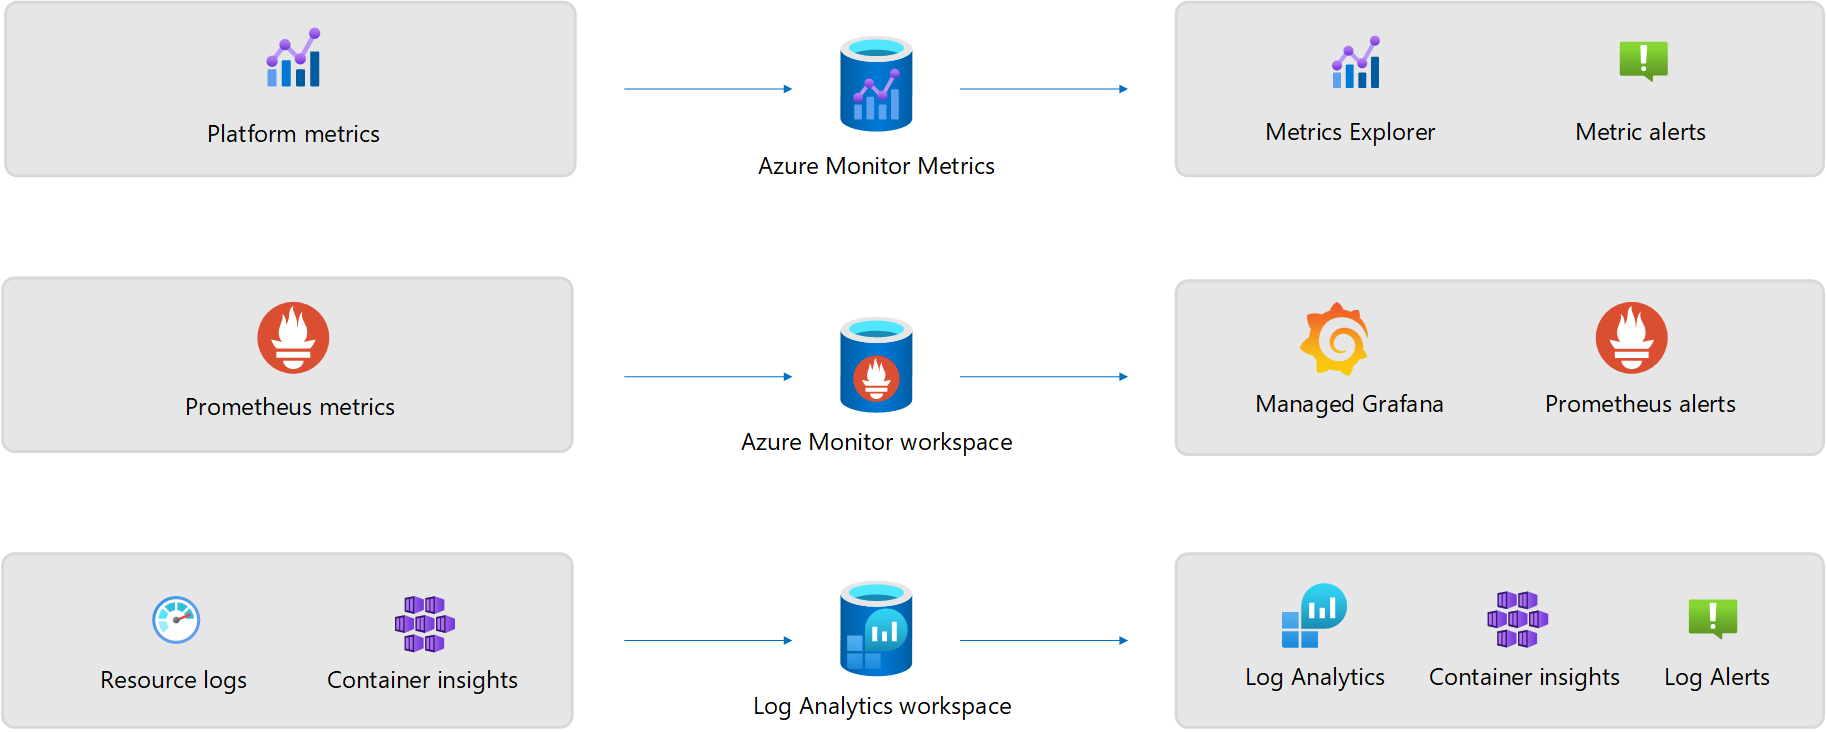
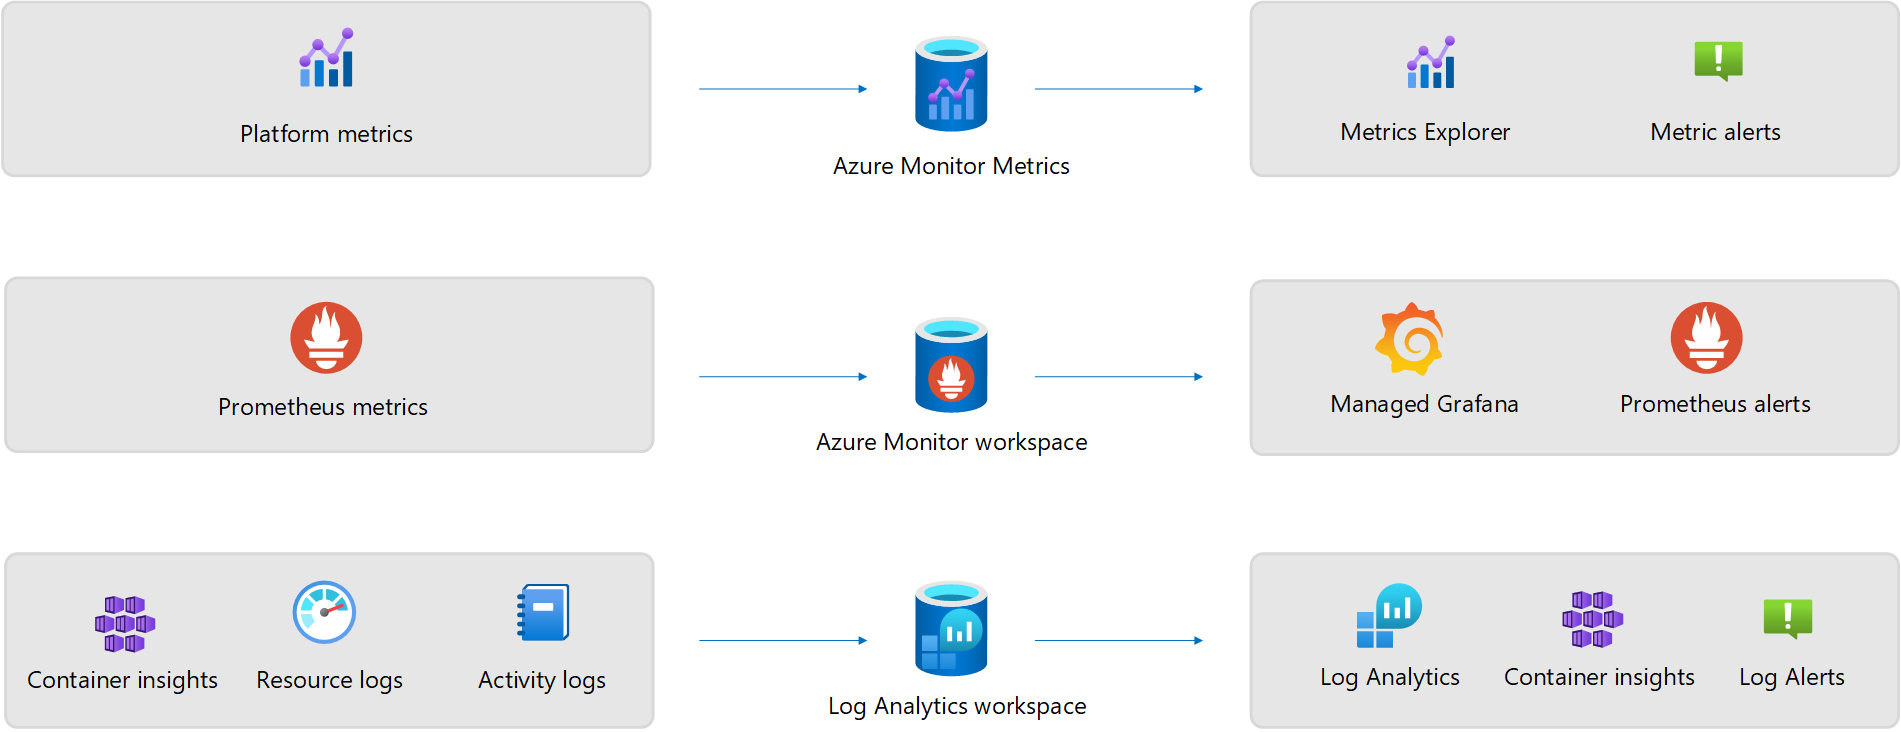
diagram update

diff --git a/articles/aks/monitor-aks.md b/articles/aks/monitor-aks.md
@@ -42,20 +42,16 @@ Access monitoring features for all AKS clusters in your subscription from the **
  
  ## Monitoring data 
 
-AKS collects the same kinds of monitoring data as other Azure resources that are described in [Monitoring data from Azure resources](../azure-monitor/essentials/monitor-azure-resource.md#monitoring-data-from-azure-resources). See [Monitoring AKS data reference](monitor-aks-reference.md) for detailed information on the metrics and logs created by AKS. [Other Azure services and features](#integrations) will collect additional data.
+AKS collects the same kinds of monitoring data as other Azure resources that are described in [Monitoring data from Azure resources](../azure-monitor/essentials/monitor-azure-resource.md#monitoring-data-from-azure-resources). See [Monitoring AKS data reference](monitor-aks-reference.md) for detailed information on the metrics and logs created by AKS. [Other Azure services and features](#integrations) will collect additional data as shown in the following diagram and table.
 
-:::image type="content" source="media/monitor-aks/aks-monitor-data.png" alt-text="Diagram of collection of monitoring datat from AKS." lightbox="media/monitor-aks/aks-monitor-data.png":::
+:::image type="content" source="media/monitor-aks/aks-monitor-data.png" alt-text="Diagram of collection of monitoring datat from AKS." lightbox="media/monitor-aks/aks-monitor-data.png" border="false":::
 
 
-### Metrics
- Sources | Description |
+
+ Source | Description |
 |:---|:---|
 | Platform metrics | [Platform metrics](monitor-aks-reference.md#metrics) are automatically collected for AKS clusters at no cost. You can analyze these metrics with [metrics explorer](../azure-monitor/essentials/metrics-getting-started.md) or use them for [metric alerts](../azure-monitor/alerts/alerts-types.md#metric-alerts).  |
 | Prometheus metrics | Prometheus metrics are collected by [Azure Monitor managed service for Prometheus](../azure-monitor/essentials/prometheus-metrics-overview.md) and stored in an [Azure Monitor workspace](../azure-monitor/essentials/azure-monitor-workspace-overview.md). Analyze them with dashboards in [Azure Managed Grafana](../managed-grafana/overview.md). You can also create [Prometheus alerts](../azure-monitor/alerts/prometheus-alerts.md) from this data. |
-
-### Logs
- Sources | Description |
-|:---|:---|
 | Activity logs | [Activity log](monitor-aks-reference.md) is collected automatically for  AKS clusters at no cost. These logs track information such as when a cluster is created or has a configuration change. Send the [Activity log to a Log Analytics workspace](../azure-monitor/essentials/activity-log.md#send-to-log-analytics-workspace) to analyze it with your other log data. |
 | Resource logs | [Control plane logs](monitor-aks-reference.md#resource-logs) for AKS are implemented as resource logs. [Create a diagnostic setting](#control-plane-logs) to send them to [Log Analytics workspace](../azure-monitor/logs/log-analytics-workspace-overview.md) where you can analyze them with log queries in [Log Analytics](../azure-monitor/logs/log-analytics-overview.md). |
 | Container insights | Container insights collects various logs and metric data from cluster including standard output (stdout) and standard error (stderr) streams and stores them in a [Log Analytics workspace](../azure-monitor/logs/log-analytics-workspace-overview.md). Analyze this data with views and workbooks included with Container insights or with log queries in [Log Analytics](../azure-monitor/logs/log-analytics-overview.md).  |
